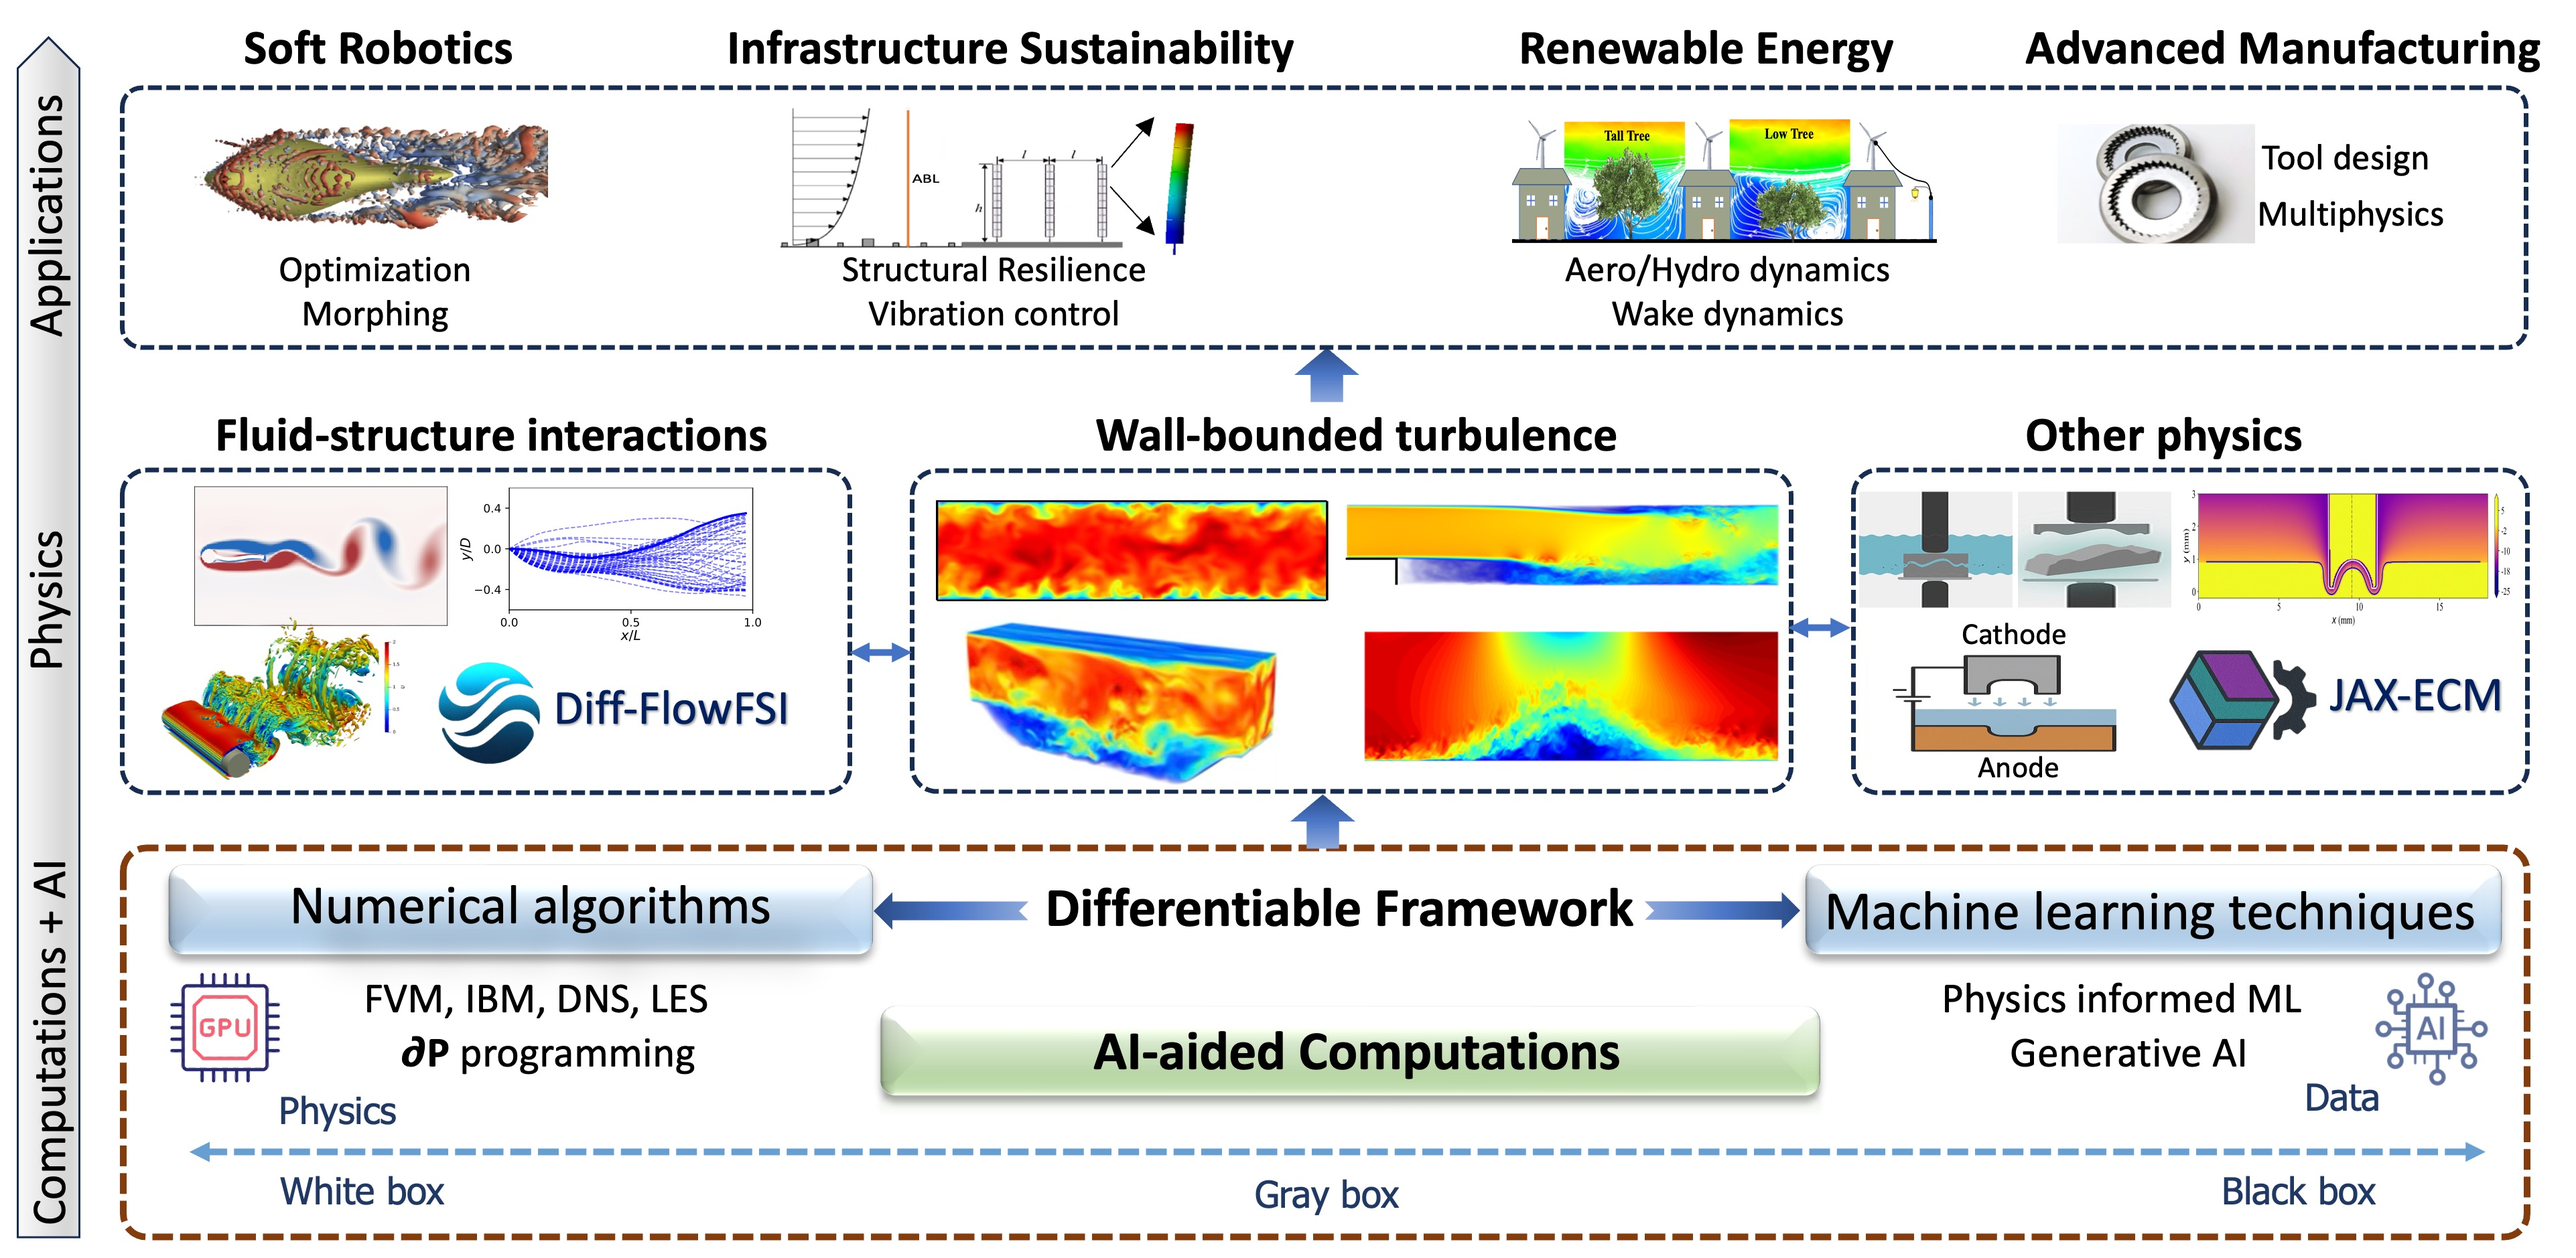
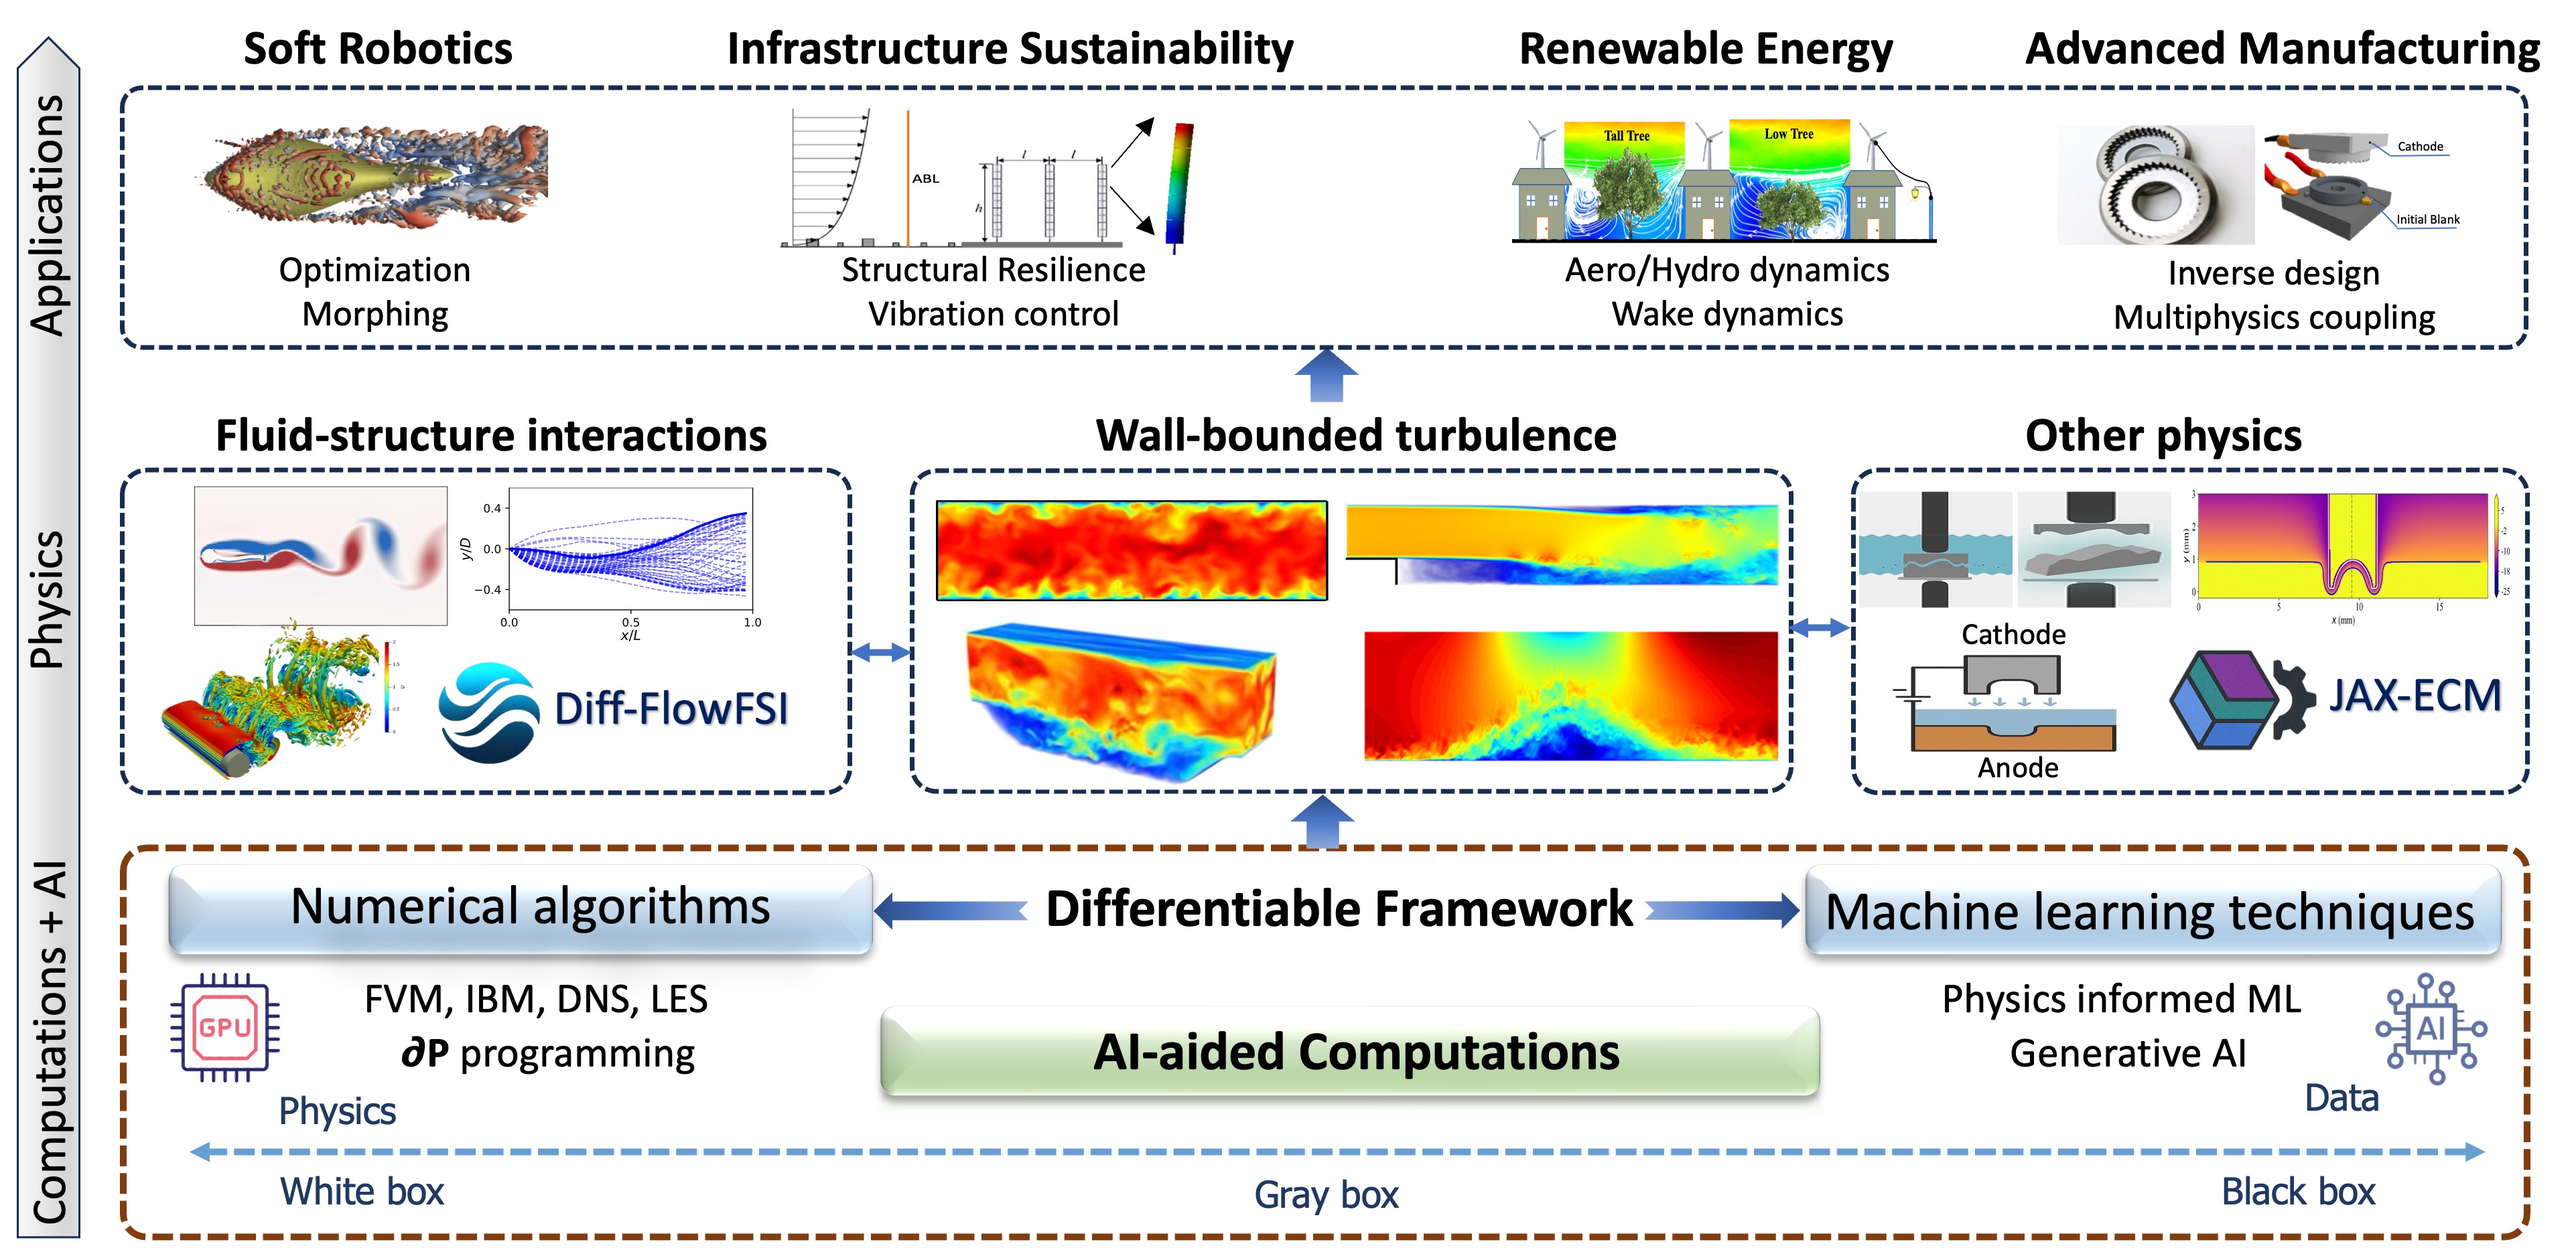
revise the color

Changed region(s): [[0.8114, 0.1852, 0.9675, 0.2778], [0.8739, 0.0926, 0.9675, 0.1852], [0.8114, 0.0926, 0.8427, 0.1852]]

diff --git a/_pages/includes/education.md b/_pages/includes/education.md
@@ -1,16 +1,16 @@
 # <i class="fa-solid fa-fw fa-graduation-cap" style="color: #73b54a"></i> Education {#education}
 
-- Ph.D. in Mechanical Engineering, <a href="#" class="show-notice-link" data-target="TJU" data-display-style="flex" style="color: var(--text-color); text-decoration-color: #8e6f3e;">Tianjin University</a>, 2018 - 2022 <br>
-  <div id="TJU" class="notice--info" markdown="1" style="display: none; background-color: #ebd99f; align-items: center; justify-content: center; gap: 1em; flex-wrap: wrap; min-width: 50%; width: fit-content; margin-left: 0;">
+- Ph.D. in Mechanical Engineering, <a href="#" class="show-notice-link" data-target="TJU01" data-display-style="flex" style="color: var(--text-color); text-decoration-color:  #00468c;">Tianjin University</a>, 2018 - 2022 <br>
+  <div id="TJU01" class="notice--info" markdown="1" style="display: none; background-color: #ebd99f; align-items: center; justify-content: center; gap: 1em; flex-wrap: wrap; min-width: 50%; width: fit-content; margin-left: 0;">
 
   ![TJU logo]({{ "/images/university-logos/tju.png" | relative_url }}){: style="width: 6em;" }
 
 
   </div>
-- M.S. in Mechanical Engineering, <a href="#" class="show-notice-link" data-target="TJU" data-display-style="flex" style="color: var(--text-color); text-decoration-color: #bb4100;">Tianjin University</a>, 2016 - 2022 <br>
-  <div id="TJU" class="notice--info" markdown="1" style="display: none; background-color: #ffaf80; align-items: center; justify-content: center; gap: 1em; flex-wrap: wrap; min-width: 50%; width: fit-content; margin-left: 0;">
+- M.S. in Mechanical Engineering, <a href="#" class="show-notice-link" data-target="TJU02" data-display-style="flex" style="color: var(--text-color); text-decoration-color:  #00468c;">Tianjin University</a>, 2016 - 2022 <br>
+  <div id="TJU02" class="notice--info" markdown="1" style="display: none; background-color: #ffaf80; align-items: center; justify-content: center; gap: 1em; flex-wrap: wrap; min-width: 50%; width: fit-content; margin-left: 0;">
 
-  ![TJU logo]({{ "/images/university-logos/tju.png" | relative_url }}){: style="width: 4.5em;" }
+  ![TJU logo]({{ "/images/university-logos/tju.png" | relative_url }}){: style="width: 6em;" }
 
 
   </div>
